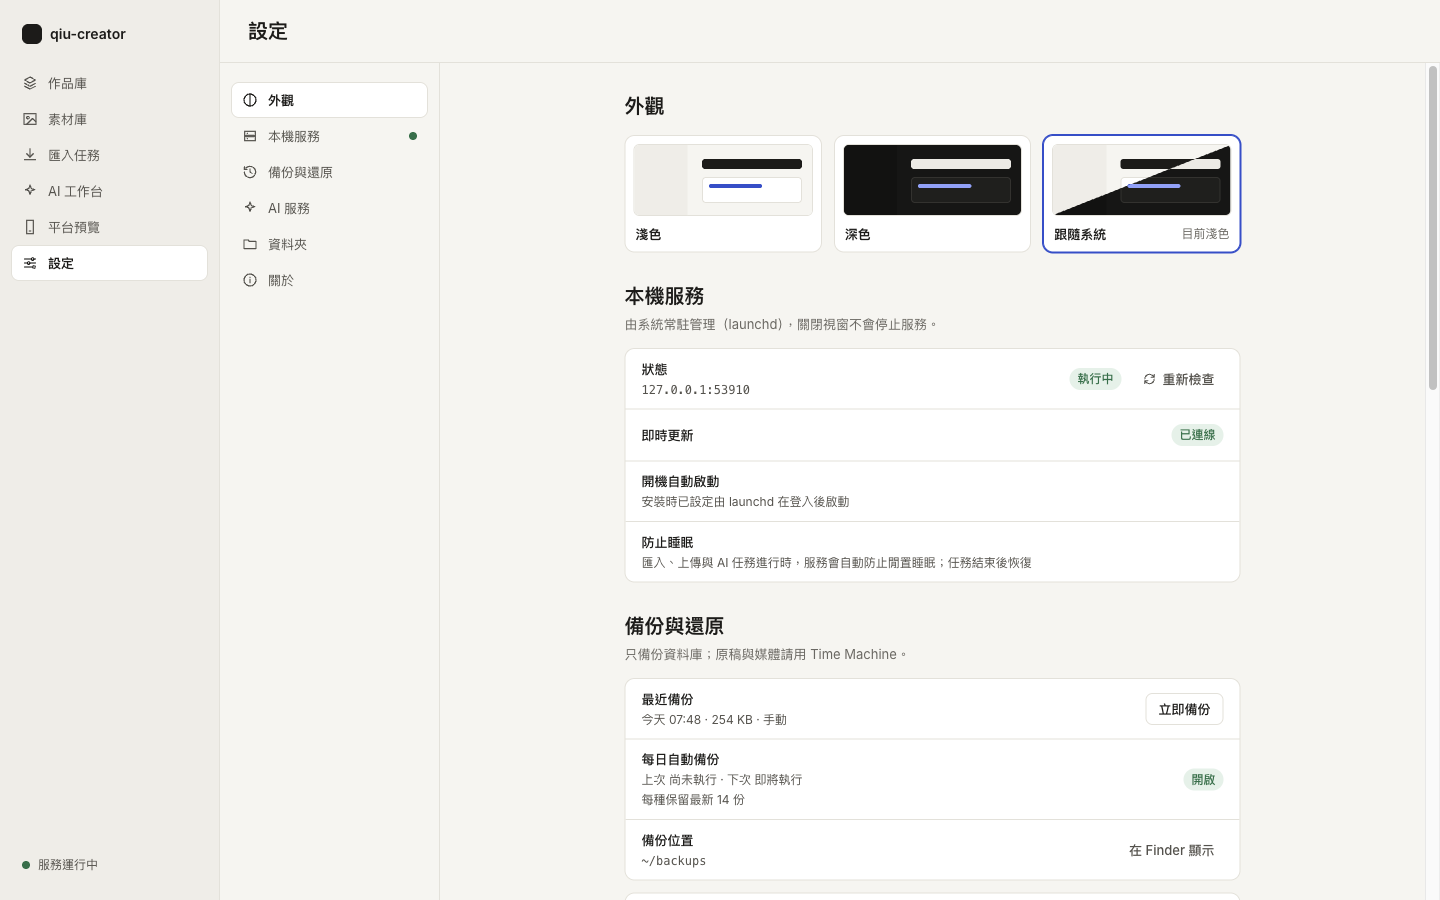
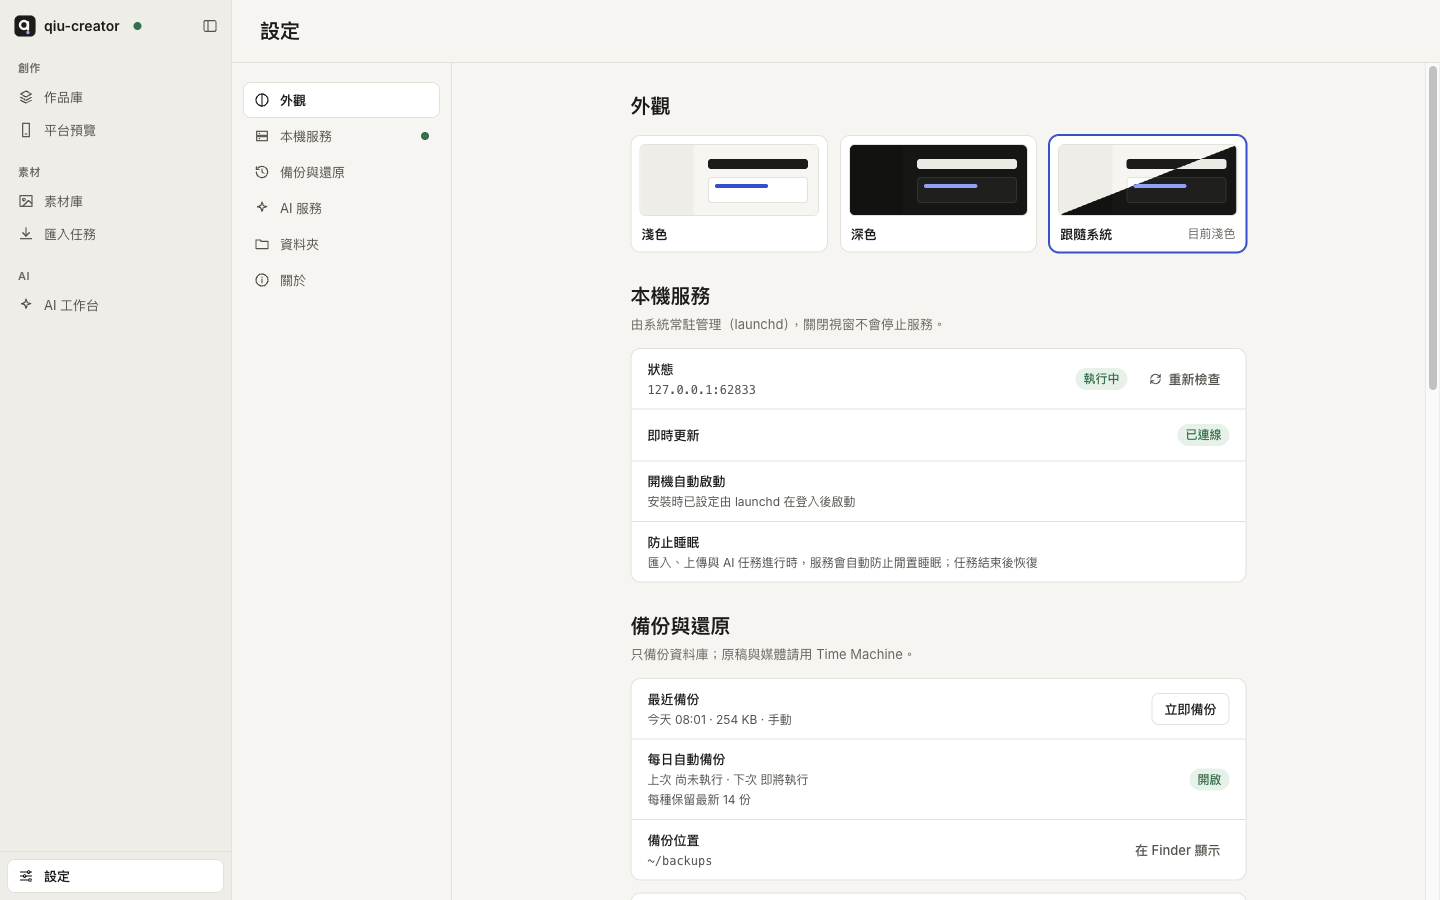
fix(mac): settings and sidebar share one service status (QC-038)
After rebasing onto QC-041, the settings page no longer runs its own
/health check: the sidebar dot, the 本機服務 category dot and the status
rows all read the app's useServiceHealth + useEventStatus through
serviceSummary, and 重新檢查 calls the same check. Screenshots retaken
with the new sidebar; e2e asserts both dots agree.

diff --git a/apps/mac/src/renderer/SettingsPage.tsx b/apps/mac/src/renderer/SettingsPage.tsx
@@ -14,7 +14,9 @@ import { BackupSection } from './BackupSection.js';
 import { versionLabel, formatStamp, type BackupSession } from './backups.js';
 import { Chip } from './Chip.js';
 import { Dialog } from './Dialog.js';
-import { useEventStatus, useRefreshOn } from './events.js';
+import { useRefreshOn } from './events.js';
+import type { EventStreamStatus } from '../shared/bridge.js';
+import type { ServiceSummary } from './sidebar-prefs.js';
 import { formatWhen, type ChipTone } from './format.js';
 import { Icon } from './Icon.js';
 
@@ -63,7 +65,19 @@ export function SettingsPage({
   focusSection,
   backups = null,
   dataEpoch = 0,
+  health,
+  eventStatus,
+  service,
+  checkHealth,
 }: {
+  /**
+   * The app's one service check (QC-041 sidebar dot): this page shows the
+   * same health, live-update status and summary, never a second copy.
+   */
+  health: HealthResponse | 'down' | null;
+  eventStatus: EventStreamStatus | null;
+  service: ServiceSummary;
+  checkHealth: () => void;
   client: CreatorHubClient;
   home: string | null;
   userHome?: string | null;
@@ -82,7 +96,6 @@ export function SettingsPage({
     aiHeading.current?.focus();
     setCurrentCat('ai');
   }, [focusSection]);
-  const [health, setHealth] = useState<HealthResponse | null | 'down'>(null);
   const [mounts, setMounts] = useState<Mount[] | null>(null);
   const [mountsFailed, setMountsFailed] = useState(false);
   const [adding, setAdding] = useState(false);
@@ -90,7 +103,6 @@ export function SettingsPage({
   const [busyId, setBusyId] = useState<string | null>(null);
   const [rowError, setRowError] = useState<{ id: string; message: string } | null>(null);
   const [removing, setRemoving] = useState<Mount | null>(null);
-  const eventStatus = useEventStatus();
   const bodyRef = useRef<HTMLDivElement>(null);
   const [currentCat, setCurrentCat] = useState<SettingsCategory>('appearance');
   const goTo = useCallback((cat: SettingsCategory) => {
@@ -107,15 +119,6 @@ export function SettingsPage({
     setCurrentCat(currentCategory(body));
   }, []);
 
-  const checkHealth = useCallback(() => {
-    client
-      .health()
-      .then(setHealth)
-      .catch(() => {
-        setHealth('down');
-      });
-  }, [client]);
-
   const loadMounts = useCallback(() => {
     client.mounts
       .list()
@@ -128,7 +131,10 @@ export function SettingsPage({
       });
   }, [client]);
 
-  useEffect(checkHealth, [checkHealth, dataEpoch]);
+  // After a restore replaced the database, ask the service again (one shared check).
+  useEffect(() => {
+    if (dataEpoch > 0) checkHealth();
+  }, [checkHealth, dataEpoch]);
   useEffect(loadMounts, [loadMounts, dataEpoch]);
   useEffect(() => {
     void backups?.load();
@@ -182,7 +188,11 @@ export function SettingsPage({
         <h1 className="page__title">設定</h1>
       </header>
       <div className="settings-layout">
-        <SettingsNav current={currentCat} serviceUp={health === null ? null : up} onPick={goTo} />
+        <SettingsNav
+          current={currentCat}
+          tone={health === null ? null : service.tone}
+          onPick={goTo}
+        />
         <div className="set-body" ref={bodyRef} onScroll={trackScroll}>
           <div className="settings">
             <AppearanceSection />

diff --git a/e2e/specs/settings-theme.spec.ts b/e2e/specs/settings-theme.spec.ts
@@ -56,6 +56,9 @@ test('設定：分類導覽、主題即時套用並記住、備份預設 3 份',
       'true',
     );
     await expect(cats.getByRole('img', { name: '服務正常' })).toBeVisible();
+    await expect(
+      page.getByRole('navigation', { name: '主導航' }).getByRole('button', { name: '一切正常' }),
+    ).toBeVisible();
     await expect(themes.getByRole('radio', { name: /跟隨系統/ })).toHaveAttribute(
       'aria-checked',
       'true',
@@ -130,7 +133,7 @@ test('設定：分類導覽、主題即時套用並記住、備份預設 3 份',
     await page.getByRole('button', { name: '全部 5 份' }).click();
     await expect(list.getByRole('listitem')).toHaveCount(5);
     await shot(page, '03-backups-expanded-light');
-    await page.getByRole('button', { name: '收起' }).click();
+    await page.getByRole('button', { name: '收起', exact: true }).click();
     await expect(list.getByRole('listitem')).toHaveCount(3);
   });
 
@@ -153,6 +156,12 @@ test('設定：分類導覽、主題即時套用並記住、備份預設 3 份',
     await cats.getByRole('button', { name: '本機服務' }).click();
     await page.getByRole('button', { name: '重新檢查' }).click();
     await expect(cats.getByRole('img', { name: '服務異常' })).toBeVisible();
+    // One source: the sidebar dot says the same thing at the same time.
+    await expect(
+      page
+        .getByRole('navigation', { name: '主導航' })
+        .getByRole('button', { name: '本機服務未回應' }),
+    ).toBeVisible();
     await expect(page.getByRole('status').filter({ hasText: '未回應' })).toBeVisible();
     await shot(page, '08-service-down-light');
   });

diff --git a/apps/mac/src/renderer/SettingsNav.tsx b/apps/mac/src/renderer/SettingsNav.tsx
@@ -1,4 +1,5 @@
 import { Icon, type IconName } from './Icon.js';
+import type { ServiceTone } from './sidebar-prefs.js';
 
 export type SettingsCategory = 'appearance' | 'service' | 'backup' | 'ai' | 'folders' | 'about';
 
@@ -59,12 +60,12 @@ export function currentCategory(body: HTMLElement): SettingsCategory {
 /** Left category list of 設定 (in-page anchors; the content scrolls on its own). */
 export function SettingsNav({
   current,
-  serviceUp,
+  tone,
   onPick,
 }: {
   current: SettingsCategory;
-  /** null while the first check runs. */
-  serviceUp: boolean | null;
+  /** The sidebar dot's tone (one source); null while the first check runs. */
+  tone: ServiceTone | null;
   onPick: (cat: SettingsCategory) => void;
 }) {
   return (
@@ -81,11 +82,11 @@ export function SettingsNav({
         >
           <Icon name={c.icon} size={16} />
           <span className="set-nav__label">{c.label}</span>
-          {c.key === 'service' && serviceUp !== null && (
+          {c.key === 'service' && tone !== null && (
             <span
-              className={serviceUp ? 'set-nav__dot' : 'set-nav__dot set-nav__dot--bad'}
+              className={`set-nav__dot set-nav__dot--${tone}`}
               role="img"
-              aria-label={serviceUp ? '服務正常' : '服務異常'}
+              aria-label={tone === 'ok' ? '服務正常' : tone === 'bad' ? '服務異常' : '還原中'}
             />
           )}
         </button>

diff --git a/apps/mac/src/renderer/App.tsx b/apps/mac/src/renderer/App.tsx
@@ -306,6 +306,10 @@ export function App() {
           focusSection={route.section}
           backups={backups.session}
           dataEpoch={dataEpoch}
+          health={health}
+          eventStatus={events}
+          service={service}
+          checkHealth={checkHealth}
         />
       )}
     </div>

diff --git a/apps/mac/src/renderer/styles.css b/apps/mac/src/renderer/styles.css
@@ -1866,6 +1866,9 @@ kbd {
 .set-nav__dot--bad {
   background: var(--qc-bad);
 }
+.set-nav__dot--restoring {
+  background: var(--qc-warn);
+}
 /* The content column scrolls on its own; the category list stays put. */
 .set-body {
   flex: 1;

diff --git a/docs/evidence/qc038-settings-theme.md b/docs/evidence/qc038-settings-theme.md
@@ -1,6 +1,6 @@
 # QC-038 驗收記錄：設定頁重排與主題切換
 
-日期：2026-11-19　分支：`feat/qc038-settings-theme`（從 origin/main `cdc880f` 開；QC-041 尚未合併，合併後再 rebase）
+日期：2026-11-19　分支：`feat/qc038-settings-theme`（已 rebase 到 origin/main `450341c`，含 QC-041）
 原型：PT-20261119-001，畫板「v2 · 設定」與「v2 · 設定（深色）」，畫布第 39 版。
 
 ## 做了什麼
@@ -28,6 +28,12 @@
 - 淺色與深色都至少 5.18:1，深色至少 6.89:1，全部達到 AA，不需要改 token。
 
 **本機服務**：狀態加重新檢查、即時更新、開機自動啟動、防止睡眠。
+
+**服務狀態只有一個來源**（rebase 到 QC-041 後補上）：
+
+- 側欄狀態點、設定頁「本機服務」分類旁的點、設定頁的狀態與即時更新兩列，都讀 App 層同一份資料：`useServiceHealth` 加上 `useEventStatus`，經 `serviceSummary` 算出結果。
+- 設定頁不再自己檢查一次。「重新檢查」呼叫的是同一個 `checkHealth`，所以按下後兩處同時更新。
+- 分類旁的點與側欄點顏色一致：綠是正常，紅是服務或即時更新異常，黃是還原中。e2e 斷言兩者在正常與服務停止時都一致。
 
 **備份與還原**：
 
@@ -82,10 +88,11 @@
 
 - `pnpm -r typecheck`、`tsc -p e2e/tsconfig.json`：通過。
 - `pnpm -r lint` 與根目錄 `pnpm lint`：0 錯誤。`pnpm format:check`：通過。
-- `pnpm test:e2e`：3 passed／0 failed／3 total（`editor-scroll`、`new-api`、`settings-theme`），期間持有 e2e 鎖。這個分支還不含 QC-041 的 `sidebar` spec。
-- 全倉 `pnpm -r --workspace-concurrency=1 --no-bail test`：**685 passed／0 failed／685 total**。
-  - 執行時間 2026-11-19 07:51:52–07:52:31。負載開始 13.55、結束 12.81，期間持有全倉測試鎖。
-  - 各套件：contracts 16、design-tokens 5、domain 27、installer 39、markdown-editor-web 22、api-client 18、platform-preview 12、mac-server 361、apps/mac 179（本任務新增 6 個）、agent-sdk 6。
+- `pnpm test:e2e`：4 passed／0 failed／4 total（`editor-scroll`、`new-api`、`settings-theme`、`sidebar`），期間持有 e2e 鎖。
+- 全倉 `pnpm -r --workspace-concurrency=1 --no-bail test`（rebase 後）：**697 passed／0 failed／697 total**。
+  - 執行時間 2026-11-19 08:01:59–08:02:35。負載開始 13.29、結束 17.42，期間持有全倉測試鎖。
+  - 各套件：contracts 16、design-tokens 5、domain 27、installer 39、markdown-editor-web 22、api-client 18、platform-preview 12、mac-server 361、apps/mac 191（本任務新增 6 個）、agent-sdk 6。
+- 截圖是 rebase 後重拍的，含 QC-041 的新側欄。
 
 ## NOT_VERIFIED
 
